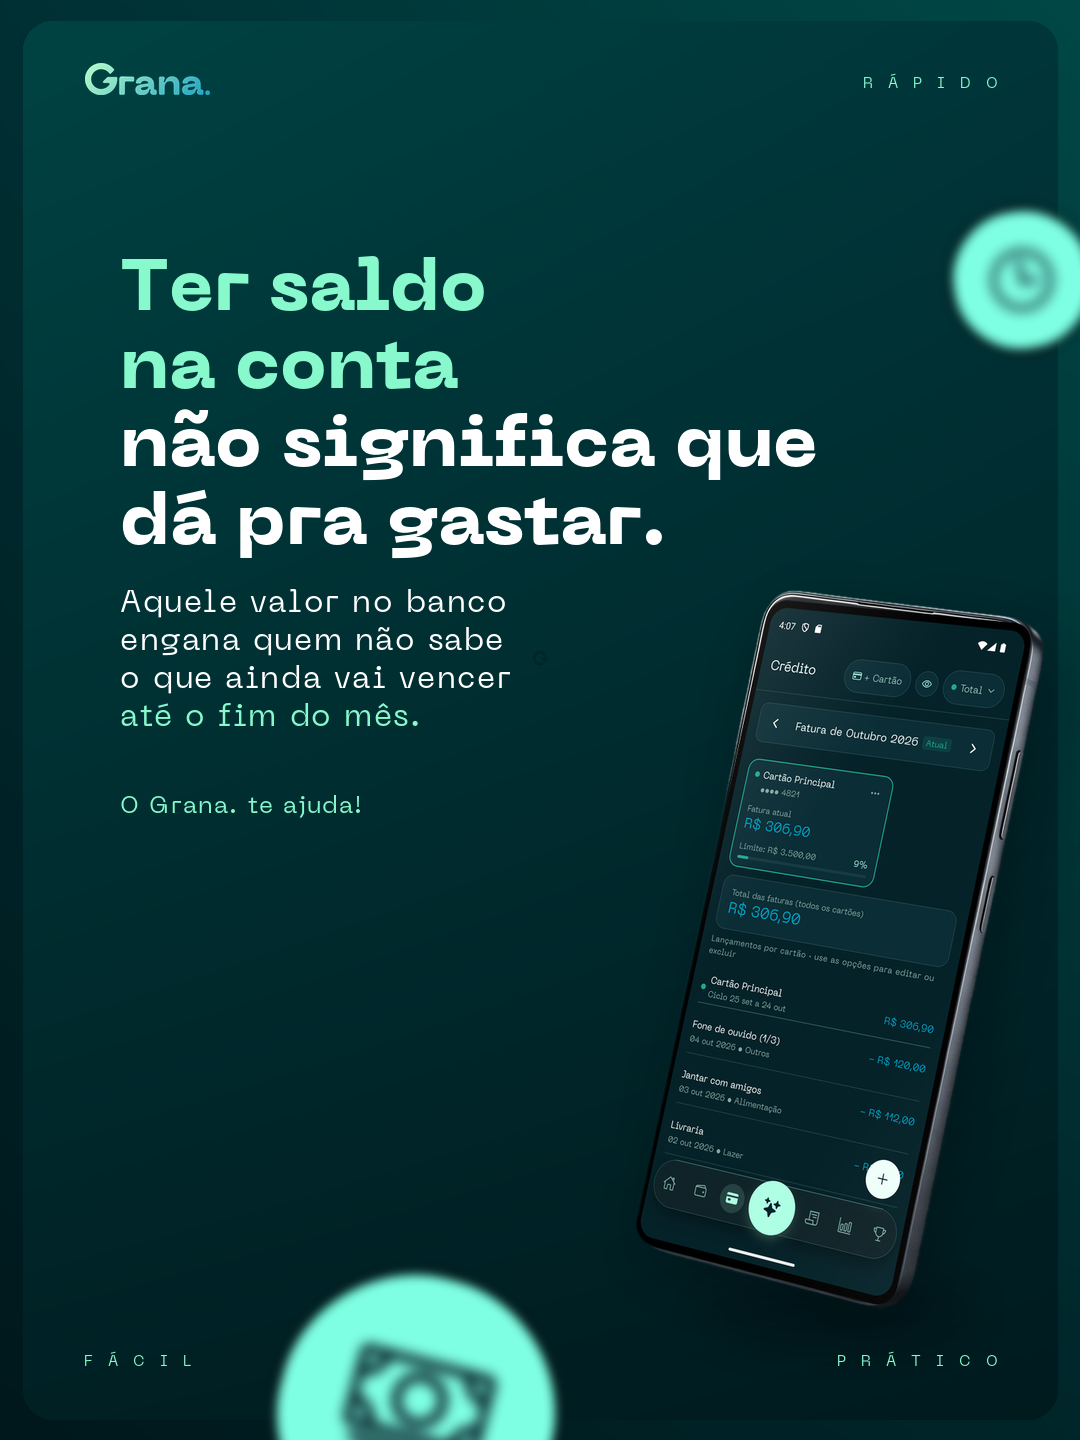
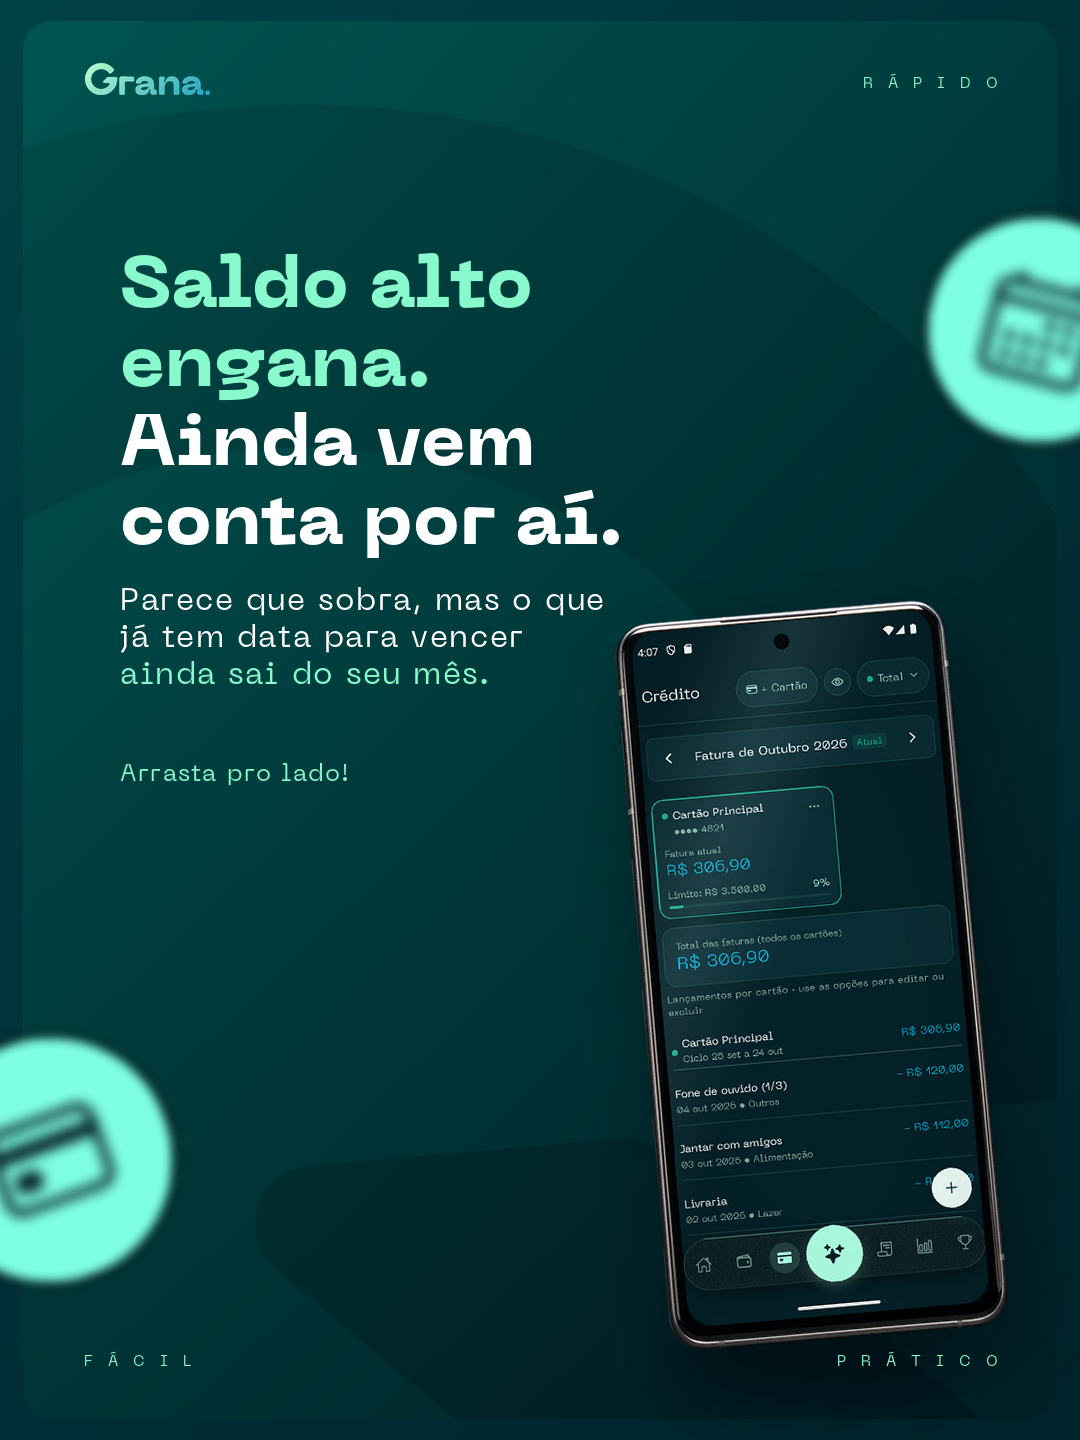
feat(marketing): carrossel lumen-v7 refeito no guia 3x4, copy revisada e Arrasta pro lado! (aguarda aceite)
Pedidos 8ef5f622, 5a0c1522 e a769743e. Mesmos caminhos carrossel-1..5 (nova versao da mesma peca); a anterior
vai para historico/pecas/lumen-v7-substituido. Gerador versionado em semana-42/apoio/ferramentas.

diff --git a/docs/marketing/2026-10/semana-42-2026-10-12-a-2026-10-18/apoio/ferramentas/gerar-carrossel-feed-3x4.py b/docs/marketing/2026-10/semana-42-2026-10-12-a-2026-10-18/apoio/ferramentas/gerar-carrossel-feed-3x4.py
@@ -1,0 +1,180 @@
+"""Carrossel de feed 1080x1440 no sistema visual dos estáticos 3:4 (guia de 11/10/2026).
+
+Segue apoio/referencias/guia-de-design-estatico-feed-3x4.md (regra 26 do AGENTS.md)
+e reaproveita o núcleo de gerar-capas-reels.py (G de fundo, degradê, celular por
+homografia, ícones do arsenal, fixos), com a tela em 1080x1440 (OY = 0).
+
+Uso:  python -I gerar-carrossel-feed-3x4.py <pasta de saída>
+Requer: Pillow, numpy e a NeueMachina-Ultrabold instalada no Windows do usuário
+(não versionada: fonte licenciada, repositório público).
+"""
+import importlib.util
+import os
+import sys
+
+import numpy as np
+from PIL import Image, ImageDraw, ImageFilter
+
+AQUI = os.path.dirname(os.path.abspath(__file__))
+CAPAS = os.path.join(AQUI, '..', '..', '..', 'semana-41-2026-10-05-a-2026-10-11', 'apoio', 'ferramentas', 'gerar-capas-reels.py')
+spec = importlib.util.spec_from_file_location('capas', CAPAS)
+c = importlib.util.module_from_spec(spec)
+spec.loader.exec_module(c)
+c.H = 1440
+c.OY = 0
+W, H = 1080, 1440
+MENTA, BRANCO = c.MENTA, c.BRANCO
+
+CAPT = c.P('docs', 'marketing', '2026-10', 'semana-40-2026-09-28-a-2026-10-04', 'apoio', 'capturas-fonte', 'outubro')
+NOTEBOOK = c.P('public', 'notebook', 'notebook.webp')
+# Tela do notebook do herói (public/notebook/notebook.webp), medida em scripts/compor-mockup-multiplataforma.mjs.
+TELA_NB = [(471.8, 56.5), (1384.5, 16.1), (1338.2, 699.3), (425.5, 650.1)]
+
+
+def notebook_com_tela(web_png):
+    nb = Image.open(NOTEBOOK).convert('RGBA')
+    tela = Image.open(web_png).convert('RGB')
+    TW, TH = tela.size
+    m = c.ret_arredondado(TW, TH, 14)
+    tela = tela.convert('RGBA')
+    tela.putalpha(m)
+    Ht = c.homografia(TELA_NB, [(0, 0), (TW, 0), (TW, TH), (0, TH)])
+    tela = tela.transform(nb.size, Image.PERSPECTIVE, list(Ht.flatten()[:8]), Image.BICUBIC)
+    nb.alpha_composite(tela)
+    return nb
+
+
+def celular_mascara(cel, centro, altura, incl):
+    esc = altura / cel.height
+    r = cel.resize((int(cel.width * esc), int(cel.height * esc)), Image.LANCZOS).rotate(incl, resample=Image.BICUBIC, expand=True)
+    m = Image.new('L', (W, H), 0)
+    m.paste(r.split()[-1], (int(centro[0] - r.width / 2), int(centro[1] - r.height / 2)))
+    return m
+
+
+def texto_mascara(h1, h2, sig, spec_):
+    """Máscara das caixas de texto (por linha), para conferir colisão com aparelho e ícones."""
+    return None
+
+
+def compor(cfg, saida):
+    g = dict(cfg['g'])
+    base, cob = c.ajustar_g(cfg.get('luz_direita', False), g)
+    base = base.convert('RGBA')
+    mascara_ap = Image.new('L', (W, H), 0)
+    caixas = []
+    # aparelhos (de trás para a frente)
+    for ap in cfg['aparelhos']:
+        if ap['tipo'] == 'notebook':
+            nb = notebook_com_tela(ap['tela'])
+            nb = nb.crop(nb.getbbox())
+            esc = ap['largura'] / nb.width
+            nb = nb.resize((ap['largura'], int(nb.height * esc)), Image.LANCZOS)
+            x, y = int(ap['centro'][0] - nb.width / 2), int(ap['centro'][1] - nb.height / 2)
+            a = np.asarray(nb.split()[-1], float)
+            sombra = Image.new('L', base.size, 0)
+            sombra.paste(Image.fromarray((a * 0.5).astype(np.uint8)), (x + 14, y + 30))
+            sombra = sombra.filter(ImageFilter.GaussianBlur(34))
+            contato = Image.new('L', base.size, 0)
+            ImageDraw.Draw(contato).ellipse([x + nb.width * 0.1, y + nb.height - 26, x + nb.width * 0.92, y + nb.height + 34], fill=130)
+            contato = contato.filter(ImageFilter.GaussianBlur(26))
+            escuro = Image.new('RGBA', base.size, (0, 10, 14, 255))
+            base = Image.composite(escuro, base, sombra)
+            base = Image.composite(escuro, base, contato)
+            base.alpha_composite(nb, (x, y))
+            caixas.append(('notebook', (x, y, x + nb.width, y + nb.height)))
+            mascara_ap.paste(nb.split()[-1], (x, y), nb.split()[-1])
+        else:
+            cel = c.celular_com_tela(ap['tela'])
+            base, caixa = c.colar_celular(base, cel, ap['centro'], ap['altura'], ap['incl'])
+            caixas.append(('celular', caixa))
+            mascara_ap = Image.composite(Image.new('L', (W, H), 255), mascara_ap, celular_mascara(cel, ap['centro'], ap['altura'], ap['incl']))
+    # ícones
+    for ic in cfg['icones']:
+        c.icone(base, ic['nome'], ic['centro'], ic['d'], ic['rot'])
+    d = ImageDraw.Draw(base)
+    h1, h2, ass = c.fonte(c.ULTRABOLD, 72), c.fonte(c.REGULAR, 31), c.fonte(c.REGULAR, 24)
+    t = cfg['texto']
+    x, al = t['x'], t.get('alinhar', 'esq')
+    entre = t.get('entrelinha', 72)
+    y = c.escrever(d, t['h1'], h1, x, t['y'], entre, 0, al)
+    y = c.escrever(d, t['h2'], h2, x, y + t.get('h1_h2', 44) + 22, 37, 0.05, al)
+    yb = y + 80 + 17
+    c.escrever(d, [[(t['sig'], MENTA)]], ass, x, yb, 0, 0.05, al)
+    c.fixos(base)
+    # conferência: texto contra aparelho
+    tm = Image.new('L', (W, H), 0)
+    td = ImageDraw.Draw(tm)
+    yy = t['y']
+    for blocos, fonte_, ent, trk in ((t['h1'], h1, entre, 0), (t['h2'], h2, 37, 0.05), ([[(t['sig'], MENTA)]], ass, 0, 0.05)):
+        if blocos is t['h2']:
+            yy = t['y'] + (len(t['h1']) - 1) * entre + t.get('h1_h2', 44) + 22
+        if blocos is not t['h1'] and blocos is not t['h2']:
+            yy = yb
+        for i, partes in enumerate(blocos):
+            larg = sum(c.largura(p, fonte_, trk) for p, _ in partes) + fonte_.size * trk * max(0, len(partes) - 1) * 0
+            x0 = x - larg if al == 'dir' else x
+            top = yy + i * ent - fonte_.size * 0.8
+            td.rectangle([x0, top, x0 + larg, yy + i * ent + fonte_.size * 0.25], fill=255)
+    colide = np.asarray(Image.composite(Image.new('L', (W, H), 255), Image.new('L', (W, H), 0), Image.fromarray(np.minimum(np.asarray(tm), np.asarray(mascara_ap))))).sum() / 255
+    out = base.convert('RGB')
+    out.save(saida)
+    return cob, caixas, int(colide), yb
+
+
+def tela(nome):
+    return os.path.join(CAPT, 'celular', nome + '.png')
+
+
+L, R = 120, 958
+SLIDES = {
+    1: dict(  # gancho: texto à esquerda, celular embaixo à direita (inclinado para fora)
+        g=dict(cx=300, cy=1000, r=700, rot=40, delta=-8), luz_direita=False,
+        aparelhos=[dict(tipo='celular', tela=tela('credito'), centro=(810, 975), altura=730, incl=5)],
+        icones=[dict(nome='calendario', centro=(1040, 330), d=230, rot=15),
+                dict(nome='cartao', centro=(50, 1160), d=250, rot=-20)],
+        texto=dict(x=L, y=307, h1=[[('Saldo alto', MENTA)], [('engana.', MENTA)], [('Ainda vem', BRANCO)], [('conta por aí.', BRANCO)]], entrelinha=79,
+                   h2=[[('Parece que sobra, mas o que', BRANCO)], [('já tem data para vencer', BRANCO)], [('ainda sai do seu mês.', MENTA)]],
+                   sig='Arrasta pro lado!')),
+    2: dict(  # pergunta: texto à direita, celular embaixo à esquerda
+        g=dict(cx=1000, cy=1050, r=700, rot=200, espelho=True, delta=12), luz_direita=True,
+        aparelhos=[dict(tipo='celular', tela=tela('contas'), centro=(270, 975), altura=730, incl=-5)],
+        icones=[dict(nome='tempo', centro=(40, 360), d=210, rot=-10),
+                dict(nome='calendario', centro=(1040, 1150), d=250, rot=15)],
+        texto=dict(x=R, y=307, alinhar='dir', h1=[[('Quantos dias', MENTA)], [('ainda faltam', MENTA)], [('até o salário?', MENTA)]], entrelinha=79,
+                   h2=[[('Dividido pelos dias que', BRANCO)], [('restam, cada gasto', BRANCO)], [('pesa diferente.', MENTA)]],
+                   sig='Arrasta pro lado!')),
+    3: dict(  # solução: texto à esquerda, celular grande ao centro-direita
+        g=dict(cx=800, cy=900, r=700, rot=170, delta=-6), luz_direita=False,
+        aparelhos=[dict(tipo='celular', tela=tela('inicio'), centro=(810, 975), altura=730, incl=4)],
+        icones=[dict(nome='carteira', centro=(40, 1000), d=250, rot=-15),
+                dict(nome='seguranca', centro=(1040, 350), d=150, rot=10)],
+        texto=dict(x=L, y=307, h1=[[('Um valor seguro', MENTA)], [('por dia, na palma', MENTA)], [('da sua mão.', BRANCO)]], entrelinha=72,
+                   h2=[[('O Grana. tira o que você', BRANCO)], [('guardou e divide o resto', BRANCO)], [('pelos dias que faltam.', MENTA)]],
+                   sig='Arrasta pro lado!')),
+    4: dict(  # uso no dia a dia: notebook embaixo + celular na frente (arquétipo B)
+        g=dict(cx=22, cy=700, r=800, rot=0, delta=-12), luz_direita=True,
+        aparelhos=[dict(tipo='notebook', tela=os.path.join(CAPT, 'web', 'inicio.png'), centro=(480, 1062), largura=850),
+                   dict(tipo='celular', tela=tela('lancamentos'), centro=(840, 1050), altura=480, incl=3)],
+        icones=[dict(nome='cafe', centro=(1040, 420), d=210, rot=12),
+                dict(nome='computador', centro=(60, 840), d=250, rot=-15)],
+        texto=dict(x=L, y=307, h1=[[('Aquele café', MENTA)], [('ou delivery,', MENTA)], [('sem peso no bolso.', BRANCO)]], entrelinha=79,
+                   h2=[[('Bateu a dúvida antes de gastar?', BRANCO)], [('Uma olhada de três segundos', BRANCO)], [('mostra se cabe no dia.', MENTA)]],
+                   sig='Arrasta pro lado!')),
+    5: dict(  # fechamento: texto à direita, celular embaixo à esquerda
+        g=dict(cx=800, cy=950, r=780, rot=-30, delta=14), luz_direita=True,
+        aparelhos=[dict(tipo='celular', tela=tela('graficos'), centro=(270, 975), altura=730, incl=-5)],
+        icones=[dict(nome='graficos', centro=(40, 360), d=170, rot=-15),
+                dict(nome='dinheiro', centro=(1040, 1130), d=260, rot=15)],
+        texto=dict(x=R, y=307, alinhar='dir', h1=[[('Termine o mês', MENTA)], [('com', BRANCO)], [('tranquilidade.', BRANCO)]], entrelinha=79,
+                   h2=[[('Controle financeiro simples', BRANCO)], [('de verdade, por menos de', BRANCO)], [('R$ 0,37 por dia.', MENTA)]],
+                   sig='Comece agora no link da bio.')),
+}
+
+if __name__ == '__main__':
+    destino = sys.argv[1] if len(sys.argv) > 1 else '.'
+    os.makedirs(destino, exist_ok=True)
+    c.renderizar_telas = lambda: None
+    for n, cfg in SLIDES.items():
+        cob, caixas, colide, yb = compor(cfg, os.path.join(destino, f'carrossel-{n}.png'))
+        print(f'carrossel-{n}: G {cob:.0%}; aparelhos {caixas}; texto sobre aparelho: {colide} px; assinatura y={yb}')

diff --git a/docs/marketing/2026-10/semana-40-2026-09-28-a-2026-10-04/INDICE.md b/docs/marketing/2026-10/semana-40-2026-09-28-a-2026-10-04/INDICE.md
@@ -38,5 +38,5 @@ Use a data prevista de publicação; sem previsão, a produção/criação. Sema
 Decisões do autor de 13/10/2026, registradas em `docs/marketing/painel/familias.json`:
 
 - **R13:** a vigente é `historico/pecas/r13/reel-r13-final.mp4` (guardada em historico, vigente pelo registro, ainda sem aceite no painel). `para-aprovacao/pecas/r13-v3/reel-r13-v3.mp4` é revisão superada; o pedido de ajuste de 07/10 sobre a v3 fica atendido pela troca. As quatro `reel-r13-final-com-aviso-*` não foram escolhidas e ficam fora da família.
-- **C14, carrossel Lumen:** a vigente é `para-aprovacao/pecas/lumen-v7/carrossel-*`, com ajuste pedido pelo autor (fila do painel); `para-aprovacao/pecas/lumen-v6/carrossel-*` é revisão superada. O `lumen-v6/card.png` (C01) é outra peça e não muda.
+- **C14, carrossel Lumen:** a vigente é `para-aprovacao/pecas/lumen-v7/carrossel-*`, com ajuste pedido pelo autor (fila do painel); `para-aprovacao/pecas/lumen-v6/carrossel-*` é revisão superada. Em 15/10/2026 a vigente foi refeita no guia 3x4 (copy revisada pelo Antigravity, "Arrasta pro lado!" nos slides 1 a 4, gerador `semana-42-2026-10-12-a-2026-10-18/apoio/ferramentas/gerar-carrossel-feed-3x4.py`); a versão anterior está em `historico/pecas/lumen-v7-substituido/`, substituída por pedido do autor. Aceite do autor pendente. O `lumen-v6/card.png` (C01) é outra peça e não muda.
 - 14/10/2026, com `git mv` e por decisão do Orquestrador Supremo: a v3 foi para `historico/pecas/r13-v3/reel-r13-v3.mp4` (regra 25) e a vigente saiu de historico para `para-aprovacao/pecas/r13/reel-r13-final.mp4`, onde aguarda o aceite do autor no painel. O pedido de ajuste de 07/10 sobre a v3 foi encerrado como atendido em `docs/marketing/painel/aprovacoes.json`.
